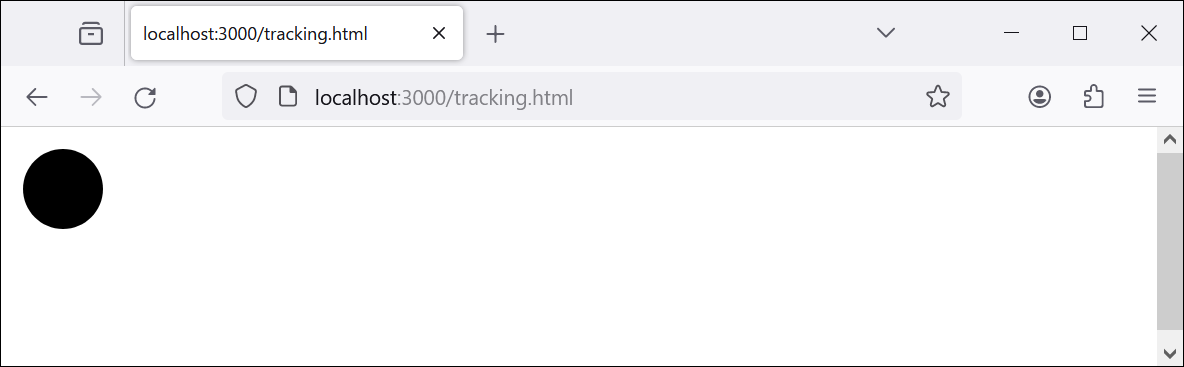
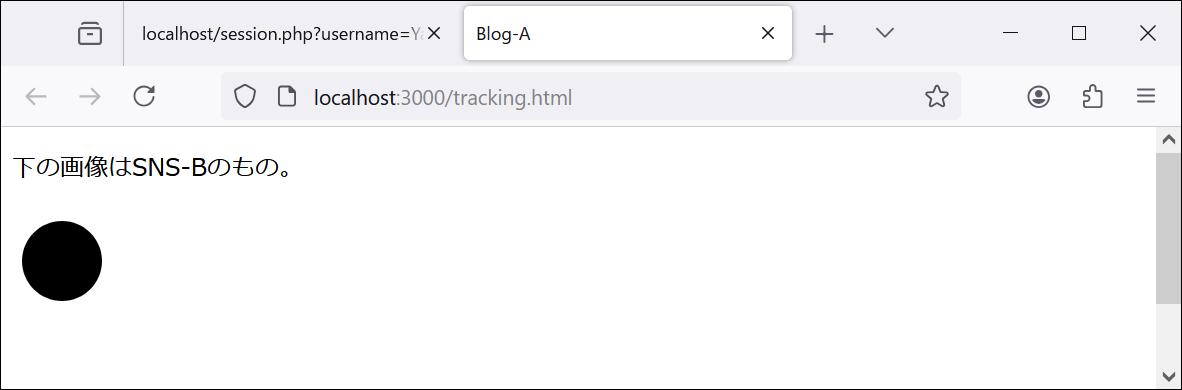
「セッション」更新

diff --git a/07-09/app/tracking.html b/07-09/app/tracking.html
@@ -1,1 +1,13 @@
-<img src="http://localhost/good.php" alt="Good" />
+<!DOCTYPE html>
+<html lang="ja">
+
+<head>
+  <title>Blog-A</title>
+</head>
+
+<body>
+  <p>下の画像はSNS-Bのもの。</p>
+  <p><img src="http://localhost/good.php" alt="Good"></p>
+</body>
+
+</html>

diff --git a/07-09/app/csrf.html b/07-09/app/csrf.html
@@ -1,1 +1,1 @@
-<img src="http://localhost/session.php?name=XYZ" alt="" />
+<img src="http://localhost/session.php?username=XYZ" alt="" />

diff --git a/07-09/app/html/session-safe.php b/07-09/app/html/session-safe.php
@@ -1,20 +1,20 @@
 <?php
 session_start();
 
-if (isset($_GET['name'])) {
+if (isset($_GET['username'])) {
   session_destroy();
   $params = session_get_cookie_params();
   $params['secure'] = true;
-  //$params['samesite'] = 'Strict';//aでも送信されない。
-  $params['samesite'] = 'Lax';//imgやiframeでは送信されない。
-  //$params['samesite'] = 'None';//別ドメインにも送信される。
+  //$params['samesite'] = 'Strict'; //aでも送信されない。
+  $params['samesite'] = 'Lax';      //imgやiframeでは送信されない。
+  //$params['samesite'] = 'None';   //別ドメインにも送信される。
   $params['httponly'] = true;
   session_set_cookie_params($params);
   session_start();
   session_regenerate_id(true);
-  $_SESSION['name'] = $_GET['name'];
+  $_SESSION['username'] = $_GET['username'];
 }
 
-if (isset($_SESSION['name'])) {
-  echo "Hello, {$_SESSION['name']}.\n";
+if (isset($_SESSION['username'])) {
+  echo "Hello, {$_SESSION['username']}.\n";
 }

diff --git a/07-09/app/html/session.php b/07-09/app/html/session.php
@@ -1,10 +1,10 @@
 <?php
 session_start();
 
-if (isset($_GET['name'])) {
-  $_SESSION['name'] = $_GET['name'];
+if (isset($_GET['username'])) {
+  $_SESSION['username'] = $_GET['username'];
 }
 
-if (isset($_SESSION['name'])) {
-  echo "Hello, {$_SESSION['name']}.\n";
+if (isset($_SESSION['username'])) {
+  echo "Hello, {$_SESSION['username']}.\n";
 }

diff --git a/07-09/app/html/good.php b/07-09/app/html/good.php
@@ -6,4 +6,4 @@ echo '<?xml version="1.0" encoding="UTF-8"?>
 </svg>';
 
 session_start();
-error_log($_SESSION['name'] ?? 'Guest');
+error_log($_SESSION['username'] ?? 'Guest');

diff --git a/07-09/09.md b/07-09/09.md
@@ -12,12 +12,17 @@
 
 [第7章](07.md)で構築した環境で動作するコードを使って説明する。
 
-1. http://localhost/session.php?name=Yabuki にアクセスすると，「Hello, Yabuki.」と表示される。
-1. 同じブラウザでhttp://localhost/session.php （`name=Yabuki`がないことに注意）にアクセスすると，やはり「Hello, Yabuki.」と表示される。
+> [!IMPORTANT]
+> 「送信された名前を記憶する」という例を使って，Webサーバがクライアントを識別できることを示す。
 
-実装：[session.php](app/html/session.php)
+1. http://localhost/session.php?username=Taro にアクセスすると，「Hello, Taro.」と表示される。
+1. 同じブラウザでhttp://localhost/session.php?username=Yabuki にアクセスすると，「Hello, Yabuki.」と表示される。
+1. 同じブラウザでhttp://localhost/session.php にアクセスすると，やはり「Hello, Yabuki.」と表示される。
+1. ブラウザを再起動してからhttp://localhost/session.php にアクセスしても，何も表示されない。
 
-Firefoxの**ウェブ開発ツール**，Chromeの**デベロッパーツール**等でネットワークの状況を確認すると，リクエストヘッダに「`Cookie: PHPSESSID=v5v0g3lpns70m0sq1c1ckcsak7`」という項目があり，リクエスト時にクライアントからサーバにクッキーが送信されていることがわかる。
+[session.php](app/html/session.php)では，1や2のクエリで指定された`username`の値をサーバサイドで記録している。3のように同じブラウザでアクセスすると，その値を使うようにしてある。
+
+Firefoxの**ウェブ開発ツール**，Chromeの**デベロッパーツール**等でネットワークの状況を確認すると，リクエストヘッダに「`Cookie: PHPSESSID=fpgf1jgbdoka6d0ajk0smcf4vn`」という項目があり，リクエスト時にクライアントからサーバにクッキーが送信されていることがわかる。
 
 ![](img/09-cookie-b.png)
 
@@ -25,7 +30,7 @@ Firefoxの**ウェブ開発ツール**，Chromeの**デベロッパーツール*
 
 ```bash
 curl 'http://localhost/session.php' \
--H 'Cookie: PHPSESSID=v5v0g3lpns70m0sq1c1ckcsak7'
+-H 'Cookie: PHPSESSID=fpgf1jgbdoka6d0ajk0smcf4vn'
 ```
 
 > [!TIP]
@@ -33,33 +38,41 @@ curl 'http://localhost/session.php' \
 
 #### クッキーによるユーザの追跡
 
-運営者の異なる二つのウェブサイトがある。
+> [!IMPORTANT]
+> サードパーティークッキーを使って，異なるドメインのウェブサイト間でユーザを追跡する。
 
-サイト|URL|内容
+サイト|ホスト|コンテンツ
 --|--|--
-ウェブサイトA|http://localhost:3000|個人ブログ
-ウェブサイトB|http://localhost|SNS
+Blog-A|ホストA（localhost:3000）|tracking.html
+SNS-B|ホストB（localhost）|session.php, good.php
 
-1. ウェブサイトAのためのWebサーバAを起動する。
+次のような状況を想定する。
 
-```bash
-php -S 0.0.0.0:3000 -t /root/host/techappweb/07-09/app
-```
-
-2. ウェブサイトBのhttp://localhost/session.php?name=Yabuki にアクセスする。
-3. ウェブサイトAのhttp://localhost:3000/tracking.html にアクセスする。（ページ中の画像はウェブサイトBのhttp://localhost/good.php である。）
+- 運営者の異なる二つのWebサイト，Blog-AとSNS-Bがある。
+- SNS-Bのhttp://localhost/session.php?name=Yabuki にアクセスすると，セッションが生成され，クッキーが保存される。
+- Blog-Aの[tracking.html](app/tracking.html) には，SNS-Bの画像http://localhost/good.php が埋め込まれている。
 
 ![](img/09-tracking-b.png)
 
-4. Ctrl-Cで実験用のWebサーバAを停止させる。
+> [!IMPORTANT]
+> SNS-Bのユーザ（Yabuki）の，SNS-Bとは無関係なBlog-Aでの行動が，SNS-Bのログに記録される。
 
-ウェブサイトBのログには，このユーザがウェブサイトAにアクセスしたことが記録される。実際，「`tail /var/log/apache2/error.log`」とすると，次のような記録が確認できる。
+1. Blog-AのためのWebサーバAを起動する。
+
+```bash
+php -S 0.0.0.0:3000 -t /var/www/techappweb/07-09/app
+```
+
+2. SNS-Bのhttp://localhost/session.php?username=Yabuki にアクセスして，SNS-Bのクッキーを取得する。
+3. Blog-Aのhttp://localhost:3000/tracking.html に，同じブラウザでアクセスする。
+4. Ctrl-CでWebサーバAを停止させる。
+5. 「`tail /var/log/apache2/error.log`」として，SNS-Bのログを確認する，次のような記録が確認できる。
 
 ```
 [Tue Oct 31 11:12:21.726166 2023] [php:notice] [pid 11192] [client 172.17.0.1:46666] Yabuki, referer: http://localhost:3000/
 ```
 
-このようにウェブサイトBは，ウェブサイトBのクッキーをもつユーザのウェブでの行動を追跡できることがある。
+このSNS-Bのログから，ユーザYabukiがSNS-Bとは無関係なBlog-A（http://localhost:3000/ ）にアクセスしたことがわかる。
 
 ## 開発者側が注意すべきこと
 
@@ -68,70 +81,92 @@ php -S 0.0.0.0:3000 -t /root/host/techappweb/07-09/app
 
 ### CSRF
 
-実装：[session.php](app/html/session.php), [csrf.html](app/csrf.html)
+> [!IMPORTANT]
+> Blog-Aの[csrf.html](app/csrf.html)を閲覧すると，Blog-Aとは無関係なSNS-Bを操作することになる。
 
 1. 実験用のウェブサーバを起動する。
 
 ```bash
-php -S 0.0.0.0:3000 -t /root/host/techappweb/07-09/app
+php -S 0.0.0.0:3000 -t /var/www/techappweb/07-09/app
 ```
 
-2. 被害者がhttp://localhost/session.php?name=Yabuki にアクセスすると，「Hello, Yabuki.」と表示される。
-3. 被害者が別ドメインのhttp://localhost:3000/csrf.html にアクセスする。
-4. 被害者がhttp://localhost/session.php にアクセスすると，「Hello, Yabuki.」ではなく，「Hello, XYZ.」と表示される。
+2. 被害者が，SNS-Bのhttp://localhost/session.php?username=Yabuki にアクセスして，SNS-Bのクッキーを取得する。
+3. 被害者が，Blog-Aのhttp://localhost:3000/csrf.html に，同じブラウザでアクセスする。
+4. 被害者が，SNS-Bのhttp://localhost/session.php に，同じブラウザでアクセスすると，「Hello, Yabuki.」ではなく，「Hello, XYZ.」と表示される。
 
 ### XSS
 
-実装：[session.php](app/html/session.php), [hello.html](app/html/hello.php), [hello-safe.php](app/html/hello-safe.php)
+> [!IMPORTANT]
+> 第三者のスクリプトが実行できる状態のページの悪用例を示す。
 
-1. 被害者がhttp://localhost/session.php?name=Yabuki にアクセスする。
-1. 被害者がhttp://localhost/hello.php?name=%3Cscript%3Ealert%28document.cookie%29%3B%3C%2Fscript%3E にアクセスすると，このページに埋め込まれたスクリプト（JavaScriptのコード）によって，クッキーが盗まれる。
+1. 被害者がhttp://localhost/session.php?username=Yabuki にアクセスして，クッキーを取得する。
+1. 被害者がhttp://localhost/hello.php?username=%3Cscript%3Ealert%28document.cookie%29%3B%3C%2Fscript%3E にアクセスすると，このページに埋め込まれたスクリプト（JavaScriptのコード）によって，クッキーが盗まれる（この例では表示するだけ）。
 
 ![](img/09-xss1-b.png)
 
-この問題は，hello.phpの代わりにhello-safe.phpを使うと解決される。被害者がhttp://localhost/hello-safe.php?name=%3Cscript%3Ealert%28document.cookie%29%3B%3C%2Fscript%3E にアクセスしても，クッキーは盗まれない。
+この問題は，[hello.php](app/html/hello.html)の代わりに[hello-safe.php](app/html/hello-safe.php)を使うと解決される。被害者がhttp://localhost/hello-safe.php?name=%3Cscript%3Ealert%28document.cookie%29%3B%3C%2Fscript%3E にアクセスしても，クッキーは盗まれない。
 
 ![](img/09-xss2-b.png)
 
 ### セッション固定化攻撃
 
-実装：[session.php](app/html/session.php), [session-safe.php](app/html/session-safe.php)
+1. 攻撃者が，「`curl -I http://localhost/session.php?username=XYZ`」でセッションを用意する（オプション「`-I`」でレスポンスヘッダを表示する。
 
-1. 攻撃者がセッションを用意する（オプション「`-I`」でレスポンスヘッダを表示する。ここでは，`Set-Cookie: PHPSESSID=780en1mmfkb64a4clrdjptar12`とする）。
-
-```bash
-curl -I http://localhost/session.php?name=XYZ
+```
+# curl -I http://localhost/session.php?username=XYZ
+HTTP/1.1 200 OK
+Date: Fri, 27 Sep 2024 08:07:56 GMT
+Server: Apache/2.4.58 (Ubuntu)
+Set-Cookie: PHPSESSID=m3vkgshugnjgqicqaklh4iiphd; path=/
+Expires: Thu, 19 Nov 1981 08:52:00 GMT
+Cache-Control: no-store, no-cache, must-revalidate
+Pragma: no-cache
+Content-Type: text/html; charset=UTF-8
 ```
 
-2. 被害者をhttp://localhost/hello.php?name=%3Cscript%3Edocument.cookie%3D%27PHPSESSID%3D780en1mmfkb64a4clrdjptar12%27%3B%3C%2Fscript%3E にアクセスさせる（他の方法を使ってもよい）。
-3. 被害者がそのサイト上でhttp://localhost/session.php?name=Yabuki などの活動をする。この活動は，攻撃者が用意したセッションで行われる。
-4. 攻撃者もそのセッションにアクセスすることで，被害者の活動を知ることができる（結果は「Hello, Yabuki.」）。
+2. 被害者をhttp://localhost/hello.php?username=%3Cscript%3Edocument.cookie%3D%27PHPSESSID%3Dm3vkgshugnjgqicqaklh4iiphd%27%3B%3C%2Fscript%3E にアクセスさせる（他の方法を使ってもよい）。
+3. 被害者がそのサイト上でhttp://localhost/session.php?username=Yabuki などの活動をする。この活動は，攻撃者が用意したセッションで行われる。
+4. 攻撃者もそのセッションにアクセスすることで，被害者の活動を知ることができる。
 
 ```bash
-curl http://localhost/session.php \
--H 'Cookie: PHPSESSID=780en1mmfkb64a4clrdjptar12'
+# curl http://localhost/session.php -H 'Cookie: PHPSESSID=m3vkgshugnjgqicqaklh4iiphd'
+Hello, Yabuki.
 ```
 
-この問題は，session.phpの代わりにsession-safe.phpを使うようにすると解決される。被害者がhttp://localhost/session-sage.php?name=Alice などの活動をすると，攻撃者が用意したセッションは使えなくなり，攻撃者が被害者の活動について知ることはできなくなる。
+この問題は，[session.php](app/html/session.php)の代わりに[session-safe.php](app/html/session-safe.php)を使うと解決される。被害者がhttp://localhost/session-safe.php?username=Alice などの活動をすると，攻撃者が用意したセッションは使えなくなり，攻撃者が被害者の活動について知ることはできなくなる。
 
 ### SQLインジェクション
 
-[脆弱な実装](app/html/search.php)
+（第8章で作成した）次のファイルにはSQLインジェクション脆弱性がある。
+
+- [SQLite: search-sqlite.php](app/html/search-sqlite.php)
+- [MySQL: search-mysql.php](app/html/search-mysql.php)
+- [共通部分: search.php](app/html/search.php)（脆弱な実装）
 
 全ての商品が取得される。これはアプリの作成者が意図した動作ではない。
 
 - SQLite: http://localhost/search-sqlite.php?search_name=%27+OR+TRUE+%2D%2D+
 - MySQL: http://localhost/search-mysql.php?search_name=%27+OR+TRUE+%2D%2D+
 
-[修正した実装](app/html/search-safe.php)
+SQLインジェクション脆弱性を修正した実装は次の通り。
+
+- [SQLite: search-safe-sqlite.php](app/html/search-safe-sqlite.php)（SQLite独自の変更はない。）
+- [MySQL: search-safe-mysql.php](app/html/search-safe-mysql.php)（プリペアドステートメントをMySQLで処理する。）
+- [共通部分: search-safe.php](app/html/search-safe.php)（プリペアドステートメントを使用する。）
+
+「全ての商品が取得される」ということはない。
 
 - SQLite: http://localhost/search-safe-sqlite.php?search_name=%27+OR+TRUE+%2D%2D+
 - MySQL: http://localhost/search-safe-mysql.php?search_name=%27+OR+TRUE+%2D%2D+
 
-MySQLにおけるプリペアドステートメントの処理を確認する。
+MySQLにおけるプリペアドステートメントの処理を`tail /var/log/mysql/general.log`で確認する。
 
-```bash
-tail /var/log/mysql/general.log
+```
+2024-09-26T08:06:54.301423Z        24 Connect   testuser@localhost on mydb using TCP/IP
+2024-09-26T08:06:54.302708Z        24 Prepare   SELECT * FROM items WHERE name LIKE ?
+2024-09-26T08:06:54.302762Z        24 Execute   SELECT * FROM items WHERE name LIKE '%\' OR TRUE -- %'
+2024-09-26T08:06:54.302960Z        24 Close stmt
+2024-09-26T08:06:54.302973Z        24 Quit
 ```
 
 ## 利用者が注意すべきこと
